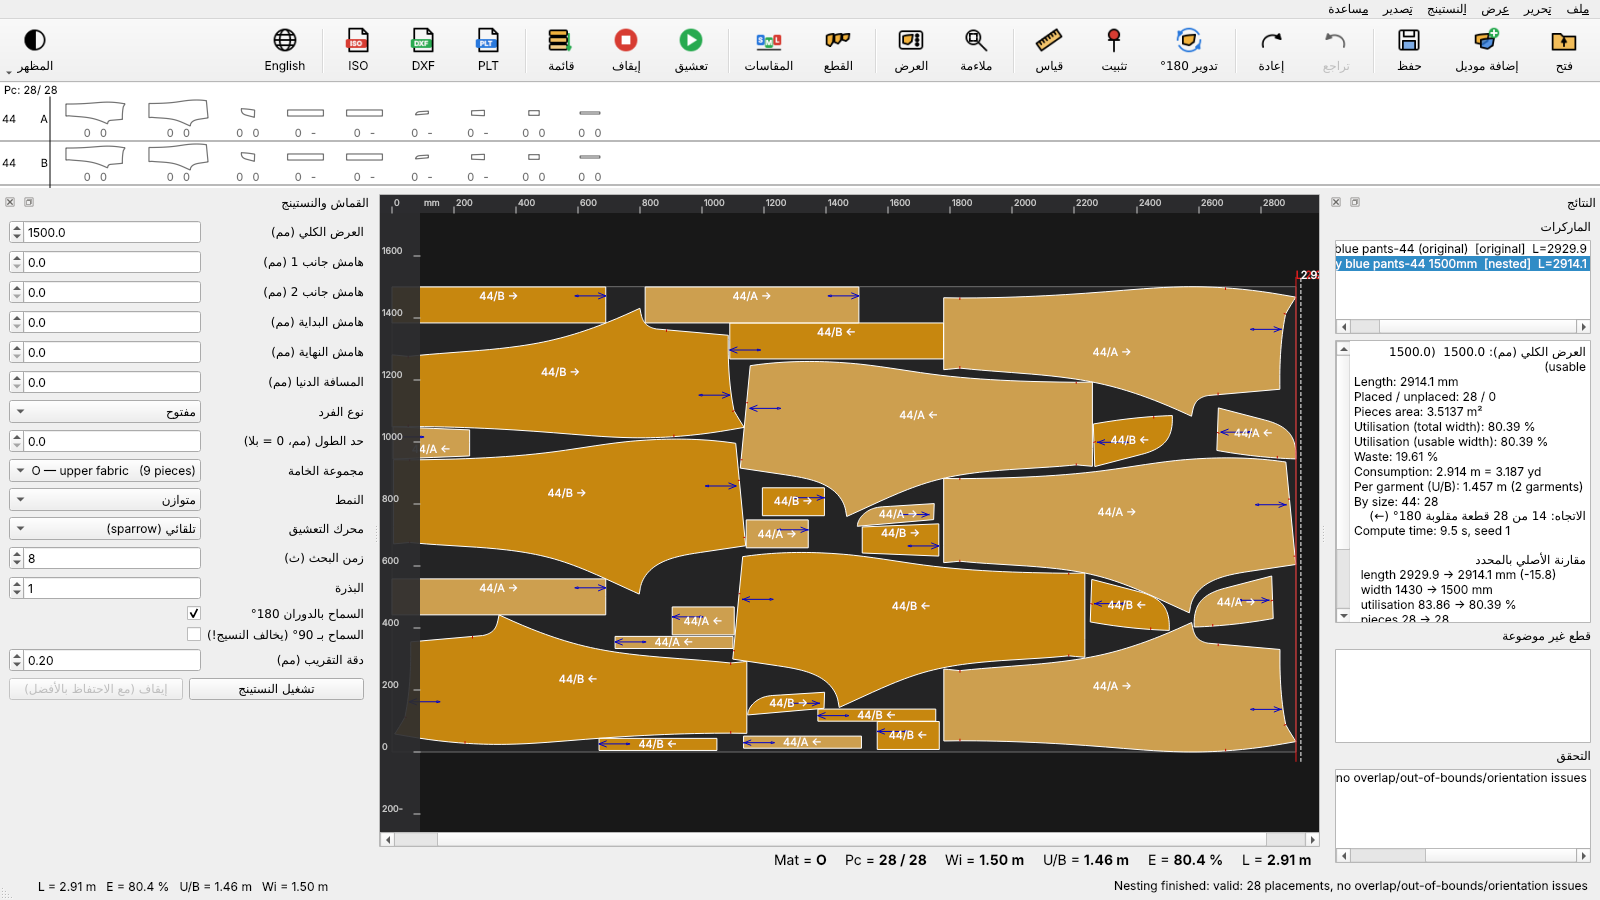
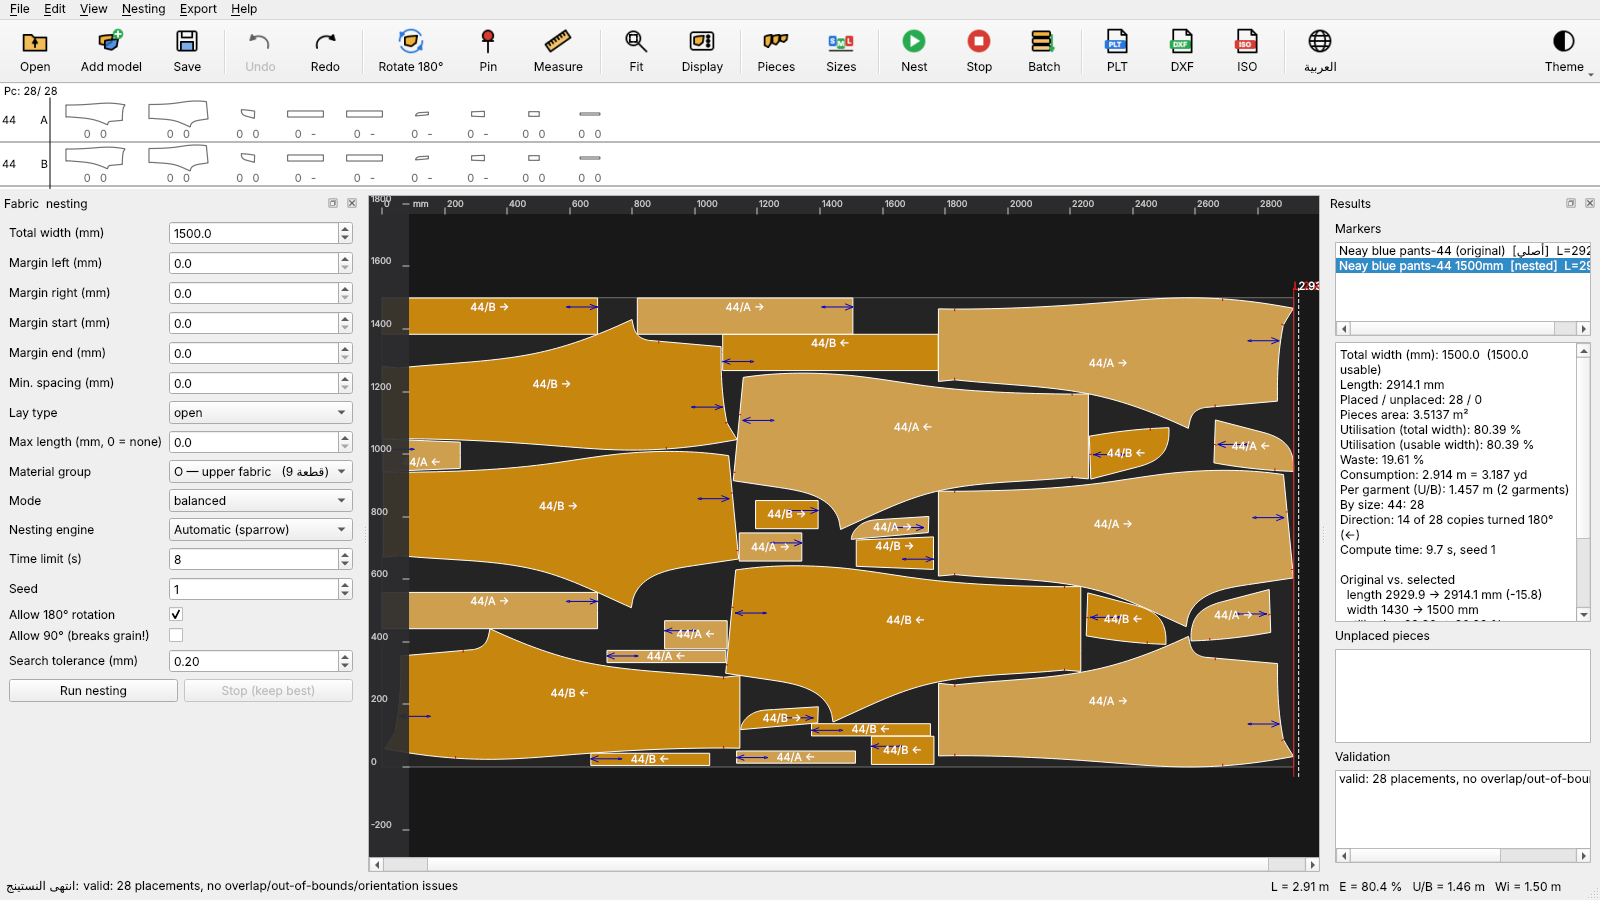
Live marker length while dragging; remove the info row under the marker
- L / E / U/B in the status bar update while a piece is being dragged
  (from the current piece positions); full validation still runs on
  release.
- The info row under the marker is removed (the status bar keeps L, E,
  U/B, Wi).

Claude-Session: https://claude.ai/code/session_01KyM7mPRv9LTYctdLGU5jGc

Changed region(s): [[0.0, 0.1244, 1.0, 0.9956], [0.0, 0.0, 1.0, 0.1244]]

diff --git a/level7/ui/main_window.py b/level7/ui/main_window.py
@@ -96,10 +96,9 @@ class MainWindow(QMainWindow):
         cl.setContentsMargins(0, 0, 0, 0)
         cl.setSpacing(0)
         cl.addWidget(self.view, 1)
-        self.info_bar = self._make_info_bar()
-        cl.addWidget(self.info_bar)
         self.setCentralWidget(central)
         self.view.moved.connect(self.on_moved)
+        self.view.dragging.connect(self._live_length)
         self.view.cursor_mm.connect(lambda x, y: self.coord_label.setText(f"x {x:.1f}  y {y:.1f} mm"))
         self.view.measured.connect(lambda d: self.statusBar().showMessage(tr("distance", d=d)))
         self._build_docks()
@@ -943,48 +942,35 @@ class MainWindow(QMainWindow):
             self.view.set_options(**opts)
             self.update_status_line()
 
-    INFO_FIELDS = ("L", "E", "U/B", "Wi", "Pc", "Mat")
-
-    def _make_info_bar(self):
-        """GRAFIS-like marker information directly under the marker."""
-        bar = QWidget()
-        bar.setObjectName("infobar")
-        hl = QHBoxLayout(bar)
-        hl.setContentsMargins(8, 4, 8, 4)
-        hl.setSpacing(18)
-        self.info_labels = {}
-        for key in self.INFO_FIELDS:
-            lab = QLabel()
-            lab.setTextFormat(Qt.RichText)
-            f = lab.font()
-            f.setPointSizeF(f.pointSizeF() + 1.5)
-            lab.setFont(f)
-            hl.addWidget(lab)
-            self.info_labels[key] = lab
-        hl.addStretch(1)
-        return bar
-
-    def _set_info(self, values: dict):
-        for key, lab in self.info_labels.items():
-            v = values.get(key)
-            lab.setText(f"{key} = <b>{v}</b>" if v not in (None, "") else "")
-
     def update_status_line(self):
         """GRAFIS-style status: L, E, U/B, Wi (metres, or millimetres if chosen)."""
         if not self.marker or "length_mm" not in (self.marker.stats or {}):
             self.grafis_status.setText("")
-            self._set_info({})
             return
         s = self.marker.stats
+        self._show_status(s["length_mm"], s["efficiency_total_width_pct"],
+                          s.get("length_per_garment_m", 0) * 1000, s["width_mm"])
+
+    def _show_status(self, length, eff, ub, width):
         mm = self.view.options.get("status_mm")
         f = (lambda v: f"{v:.1f} mm") if mm else (lambda v: f"{v / 1000:.2f} m")
-        self.grafis_status.setText(f"L = {f(s['length_mm'])}   E = {s['efficiency_total_width_pct']:.1f} %   "
-                                   f"U/B = {f(s.get('length_per_garment_m', 0) * 1000)}   Wi = {f(s['width_mm'])}")
-        mats = sorted({(self.project.piece(pl.piece_uid).material or "?") for pl in self.marker.placements
-                       if pl.placed and self.project.piece(pl.piece_uid)})
-        self._set_info({"L": f(s["length_mm"]), "E": f"{s['efficiency_total_width_pct']:.1f} %",
-                        "U/B": f(s.get("length_per_garment_m", 0) * 1000), "Wi": f(s["width_mm"]),
-                        "Pc": f"{s['placed']} / {s['placed'] + s['unplaced']}", "Mat": ", ".join(mats)})
+        self.grafis_status.setText(f"L = {f(length)}   E = {eff:.1f} %   U/B = {f(ub)}   Wi = {f(width)}")
+
+    def _live_length(self):
+        """While a piece is dragged: L / E / U/B from the current piece positions (no validation)."""
+        if not self.marker or not self.marker.stats:
+            return
+        items = list(self.view.items_by_uid.values())
+        if not items:
+            return
+        f = self.marker.fabric
+        right = max(it.mapToScene(it.path().boundingRect()).boundingRect().right() for it in items)
+        length = right + f.margin_end
+        s = self.marker.stats
+        area = s.get("pieces_area_m2", 0.0) * 1e6
+        eff = 100.0 * area / (f.width * length) if f.width and length > 0 else 0.0
+        garments = s.get("garments") or 0
+        self._show_status(length, eff, (length / garments) if garments else 0.0, f.width)
 
     # -- nesting ---------------------------------------------------------------------------
     def run_nesting(self):

diff --git a/level7/ui/marker_view.py b/level7/ui/marker_view.py
@@ -198,6 +198,11 @@ class PieceItem(QGraphicsPathItem):
             pen = QPen(QColor(255, 255, 255) if o["white_marking"] else QColor(0, 0, 0), 0)
         self.setPen(pen)
 
+    def itemChange(self, change, value):
+        if change == QGraphicsItem.ItemPositionHasChanged and self.view is not None:
+            self.view.dragging.emit()
+        return super().itemChange(change, value)
+
     def mouseReleaseEvent(self, ev):
         super().mouseReleaseEvent(ev)
         d = self.pos()
@@ -209,6 +214,7 @@ class PieceItem(QGraphicsPathItem):
 
 class MarkerView(QGraphicsView):
     moved = Signal(list)           # [(placement, dx, dy)]
+    dragging = Signal()            # a piece is being moved (live length in the status bar)
     cursor_mm = Signal(float, float)
     measured = Signal(float)
 

diff --git a/docs/دليل_التثبيت_والتشغيل.md b/docs/دليل_التثبيت_والتشغيل.md
@@ -113,9 +113,8 @@
 متقطع، وبعد النقرة الثانية يظهر مربع: المسافة D والفرق الأفقي ΔX والرأسي ΔY بالملليمتر. نقرة جديدة = قياس جديد؛
 زر الماوس الأيمن أو Esc يمسح القياس. القطع لا تتحرك أثناء وضع القياس.
 
-### معلومات الماركر أسفل الماركر
-شريط أسفل الماركر: L (الطول)، E (الكفاءة)، U/B (الاستهلاك لكل قطعة ملابس)، Wi (العرض)، Pc (الموضوع / الإجمالي)،
-Mat (الخامة).
+### معلومات الماركر (أسفل يسار الشاشة)
+L (الطول)، E (الكفاءة)، U/B (الاستهلاك لكل قطعة ملابس)، Wi (العرض). تتحدث فورًا أثناء سحب أي قطعة.
 
 ### تغيير خامة القطعة
 في جدول القطع، عمود «الخامة» قائمة: اختر خامة موجودة (O، F …) أو اكتب رمزًا جديدًا. «مجموعة الخامة» في لوحة
